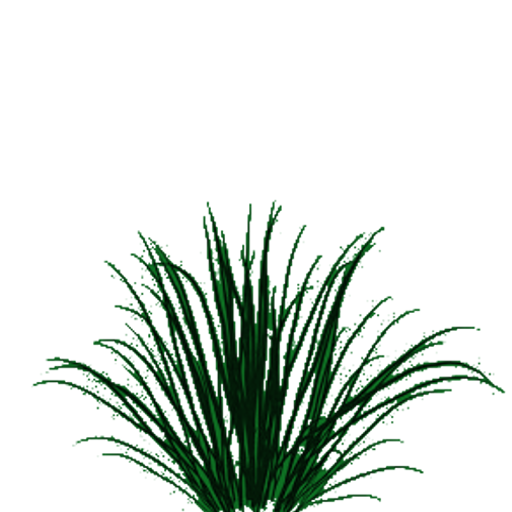
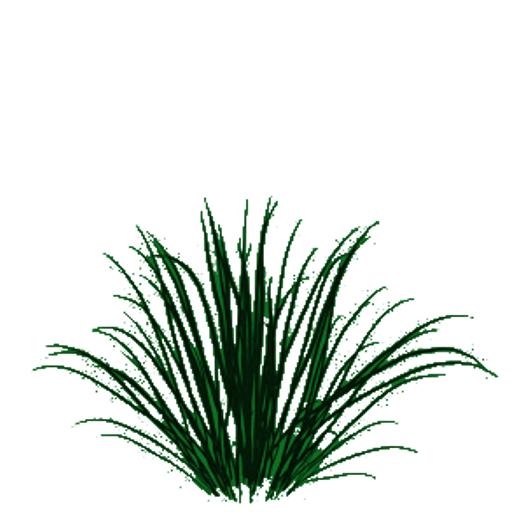
de l'herbe la haut sur la colline

Changed region(s): [[0.0625, 0.375, 1.0, 1.0], [0.7188, 0.9688, 0.75, 1.0]]

diff --git a/src/shader.py b/src/shader.py
@@ -382,29 +382,29 @@ layout(location = 1) in vec3 normal;
 uniform mat4 viewMatrix;
 uniform mat4 modelMatrix;
 uniform mat4 projMatrix;
-out vec3 outNormal;
+//out vec3 outNormal;
 out vec2 fragTexCoord;
 void main() {
     gl_Position = projMatrix * viewMatrix * modelMatrix * vec4(position, 1);
-    mat4 modV = viewMatrix * modelMatrix;
-    mat3 M = mat3(vec3(modV[0]), vec3(modV[1]), vec3(modV[2]));
-    outNormal = transpose(inverse(M)) * normal;
-    fragTexCoord = 60.0*vec2(position[0]+1, position[1]-1)/facteur /1.2;
+    //mat4 modV = viewMatrix * modelMatrix;
+    //mat3 M = mat3(vec3(modV[0]), vec3(modV[1]), vec3(modV[2]));
+    //outNormal = transpose(inverse(M)) * normal;
+    fragTexCoord = 60.0*vec2((position[0]+1)/1.2, (position[1]-1)/1.25)/facteur;
 }"""
 
 HERBE_FRAG = """#version 330 core
 uniform sampler2D diffuseMap;
-in vec3 outNormal;
+//in vec3 outNormal;
 in vec2 fragTexCoord;
 out vec4 outcolor;
 void main() {
     vec4 ambiant = vec4(0.1,0,0,1);
-    vec3 normal = normalize(outNormal);
-    vec3 l = vec3(0, 0, 1);
+    //vec3 normal = normalize(outNormal);
+    //vec3 l = vec3(0, 0, 1);
     vec4 col = texture(diffuseMap, fragTexCoord);
     if (col[3]<0.1){
         discard;
     }
-    float dotP = max(0, dot(normal, l));
-    outcolor = col*dotP + ambiant;
+    //float dotP = max(0, dot(normal, l));
+    outcolor = col ;//*dotP + ambiant;
 }"""

diff --git a/main.py b/main.py
@@ -82,16 +82,16 @@ def main():
     plan = Plan()
     erb1 = creer_herbe(plan, 10.0, (0, -.5, -25))
     viewer.add(erb1)
-    """
+
     x1 = -30
     x2 = -50
     h = 22
     z1 = -70
     z2 = -90
-    for _ in range(4):
-        erb = creer_herbe(plan, 5, ((x2 - x1) * random() + x1, h, (z2 - z1) * random() + z1))
+    for _ in range(5):
+        erb = creer_herbe(plan, 15, ((x2 - x1) * random() + x1, h, (z2 - z1) * random() + z1))
         viewer.add(erb)
-    """
+
 
 
     bleu = [0,0,1]
